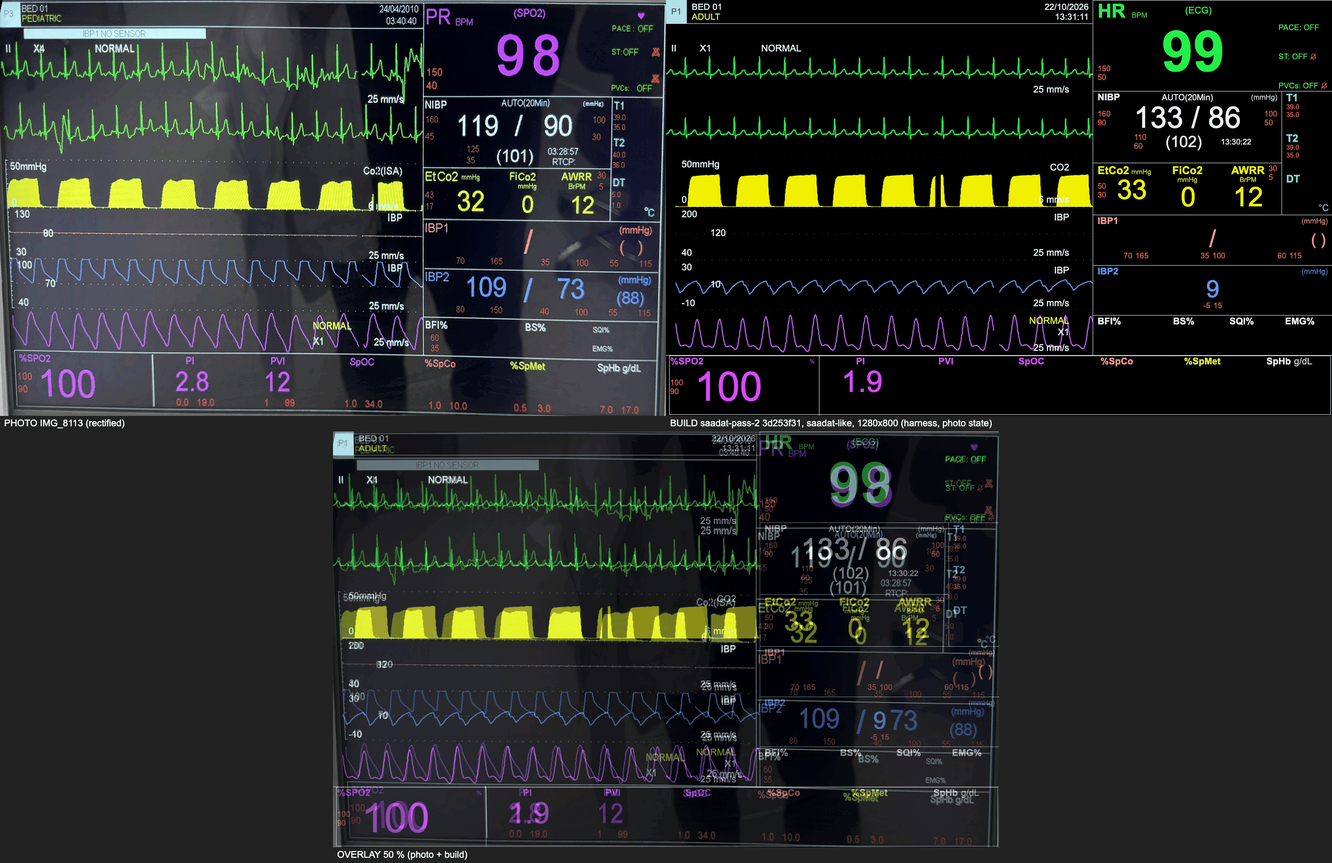
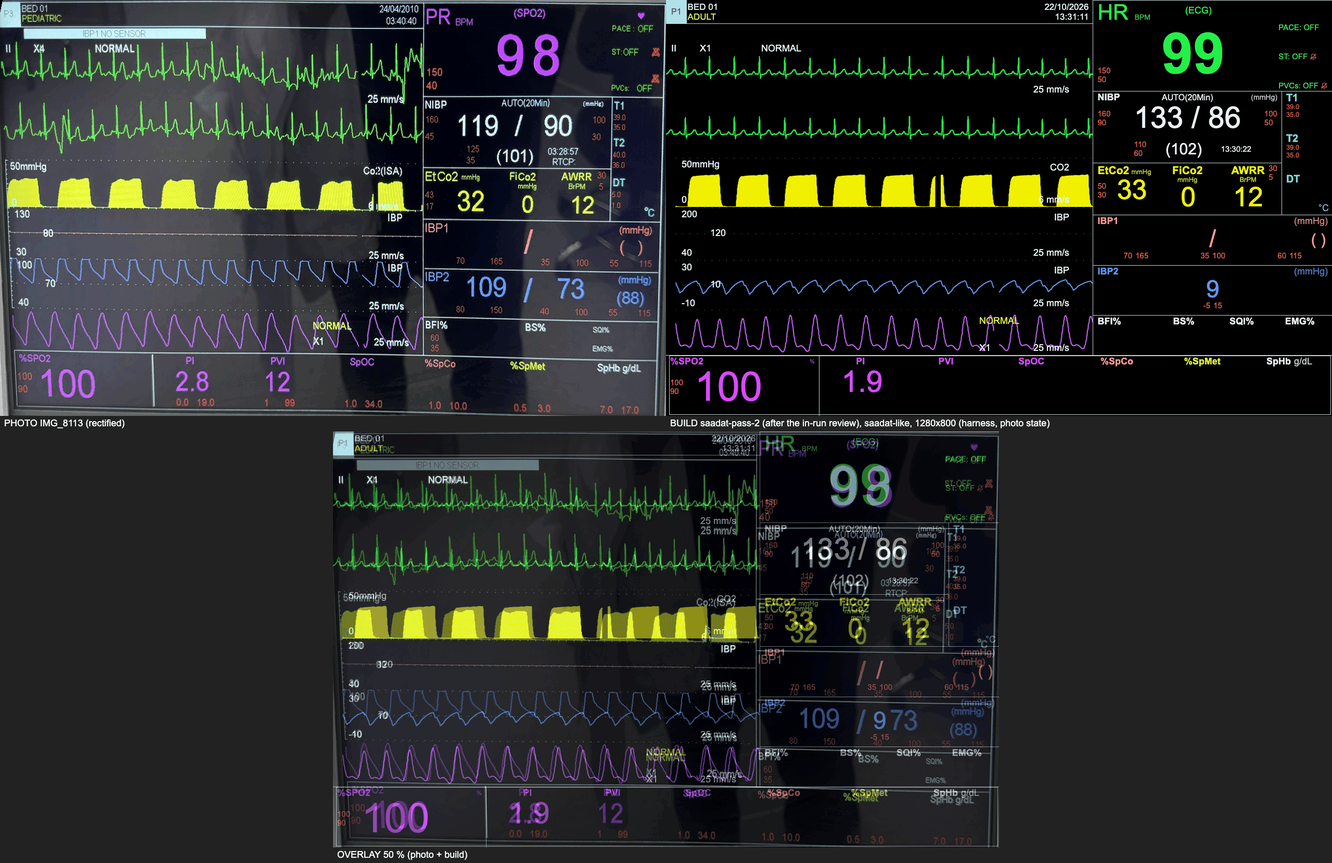
fix(skins): pass-2 in-run review — PR label regular 41 px, the CO2 tile bell off the AWRR limit, the pleth label block, a visible CO2 top line, IBP units 18 px, NIBP mean lower, BED at x 42
From the fresh reviewer's row-by-row measurement: T4 (the photo's PR is regular weight, cap height 30 px), a new overlap of the crossed bell over the AWRR high limit (the split row's bell goes to the bottom right), G2 for the pleth (labels.PLETH.leftInsetPx: NORMAL over X1 left-aligned at x 602, X1 on the speed's row), W10 (a top-edge dot is drawn one pixel inside the lane, as the bottom one already was; it had faded to 34/255), T12, T8, T13. Other skins: still 0 differing pixels.

diff --git a/packages/renderer/src/device-ui.ts b/packages/renderer/src/device-ui.ts
@@ -45,7 +45,7 @@ export function flashCss(r: ResolvedSkin): string {
     '.pme-hdr.two .r2{display:flex;align-items:center;gap:8px;height:max(22px,calc(3 * var(--pme-h, 0px) / 100));padding:0 8px 0 0;box-sizing:border-box}',
     // pass 2 (IMG_8113): the rule under row 1, not under the bar row (G3); the bar 45 px in, its text centred (C3); the
     // page box the full row high, flush left, regular (G4, T13); the header text 17 px (T13)
-    '.pme-hdr.two .r1{border-bottom:1px solid var(--pme-hdr-rule, transparent)}',
+    '.pme-hdr.two .r1{border-bottom:1px solid var(--pme-hdr-rule, transparent);gap:2px}',
     '.pme-hdr.two .r2{padding-left:5.5%}',
     '.pme-hdr.two .r2 .pme-bar{flex:none;width:calc(0.43 * (100% - var(--pme-tiles-w, 0px)));font-weight:400;text-align:center}',
     '.pme-hdr.two .pg{font-size:16px;padding:0 10px;margin-left:-8px;font-weight:400;align-self:stretch;display:flex;align-items:center}',
@@ -159,10 +159,13 @@ function photoCss(g: LayoutGrid): string[] {
   return [
     // T3: label weight (tiles, split parts, the strip)
     ...(w ? [`.pme-grid .pme-stile [data-pme="lbl"],.pme-grid .pme-stile .ph .pl,.pme-strip .pme-stile [data-pme="lbl"],.pme-sfield .pl{font-weight:${w}}`] : []),
-    // T4/T5/T10: a tile's own label size (PR 37, EtCo2 21, T1/T2/DT 20)
+    // T4/T5/T10: a tile's own label size (PR 41, EtCo2 21, T1/T2/DT 20); the PR label itself is regular weight (IMG_8113:
+    // 2–3 px stems at a 30 px cap height)
     ...own,
+    '.pme-grid .pme-stile.rc3[data-param="HR"] [data-pme="lbl"]{font-weight:400}',
     // T4: "BPM" beside the PR label on its baseline; T12: units 14 px
     '.pme-grid .pme-stile.rc3 .h .u{font-size:' + f(14) + '}',
+    `.pme-grid .pme-stile.rc3[data-param^="IBP"] .h .u{font-size:${f(18)}}`, // the IBP "(mmHg)" is larger (62 px wide)
     '.pme-grid .pme-stile.rc3[data-param="HR"] .h{align-items:baseline}',
     '.pme-grid .pme-stile.rc3[data-param="HR"] .h .u{margin-left:0}',
     // T6: the rate source "(ECG)" / "(SPO2)" 18 px, centred at the top of the PR tile
@@ -174,6 +177,7 @@ function photoCss(g: LayoutGrid): string[] {
     '.pme-grid .pme-stile.rc3[data-param="HR"] .lim.a{align-self:flex-end}',
     // T8: the NIBP mean 30 px under the slash, its limits left of it; T9: the mode 16 px centred at the top
     `.pme-grid .pme-stile.rc3[data-param="NIBP"] .srow .s{font-size:${f(30)};text-align:center}`,
+    `.pme-grid .pme-stile.rc3[data-param="NIBP"] .srow{margin-top:${f(14)}}`,
     `.pme-grid .pme-stile.rc3[data-param="NIBP"] .lim.c{margin-left:${f(70)}}`,
     `.pme-grid .pme-stile.rc3[data-param="NIBP"] [data-pme="ntime"]{font-size:${f(15)};margin-right:${f(50)}}`,
     `.pme-grid .pme-stile.rc3[data-param="NIBP"] [data-pme="mode"]{position:absolute;left:50%;top:${f(4)};transform:translateX(-50%);font-size:${f(16)}}`,
@@ -189,6 +193,8 @@ function photoCss(g: LayoutGrid): string[] {
     '.pme-grid .pme-stile.split.row .pv{text-align:center}',
     '.pme-grid .pme-stile.split.row .part{position:relative}',
     '.pme-grid .pme-stile.split.row .part:last-child:not(:first-child) .lim{position:absolute;right:0;top:0}',
+    // … so the split row's bell goes to the bottom right, as the T column's °C does (it printed over the AWRR limit)
+    `.pme-grid .pme-stile.split.row>.h{top:auto;bottom:${f(4)}}`,
     // G6: the %SPO2 value left of centre, after its limits
     `.pme-strip .pme-stile .v{text-align:left;padding-left:${f(18)}}`,
     // G5: the strip as a framed box (x 6–1278)

diff --git a/packages/renderer/test/lane-text.test.ts b/packages/renderer/test/lane-text.test.ts
@@ -232,18 +232,33 @@ describe('saadat-like lane text, pass 2 (landscape: IMG_8113 rows T1, T2, G1, G2
     expect(renderPlan(resolveSkin('philips-like')).pxPerMm).toBeNull();
   });
 
-  it('fit guards: a short landscape lane (1024 × 640: a 485 px canvas, PLETH ≈ 68 px) drops the pleth "X1" before its speed; no right-hand rows overlap', () => {
+  it('fit guards: on a short landscape lane (1024 × 640: a 485 px canvas, PLETH ≈ 68 px) no right-hand rows overlap; a second right-aligned line goes before the speed', () => {
     const rows = (ctx: FakeCtx) => ctx.calls.filter((c) => c.op === 'fillText' && c.style?.startsWith('right:')).map((c) => c.args[1]!).sort((a, b) => a - b);
     const tall = make({}, 1056, 614, 'pass2').ctx;
     expect(tall.texts.slice(-3)).toEqual(['NORMAL', 'X1', '25 mm/s']); // the photo's 614 px of lanes: all three
     const short = make({}, 1056, 485, 'pass2').ctx;
-    expect(short.texts.slice(-2)).toEqual(['NORMAL', '25 mm/s']);
+    expect(short.texts.slice(-3)).toEqual(['NORMAL', 'X1', '25 mm/s']); // the pleth block is left-aligned: X1 shares the speed's row
+    // a right-aligned label with a second line (the pleth without its leftInsetPx) loses the second line first
+    const plain = pass2(false);
+    const pleth = plain.lanes.find((l) => l.id === 'PLETH')!;
+    delete pleth.rightLabel!.leftInsetPx;
+    const ctx2 = new FakeCtx();
+    new MonitorCore({ width: 0, height: 0 }, ctx2, { cssW: 1056, cssH: 485, dpr: 1 }, { engine: { seed: 1, device: { skin: 'saadat-like' } }, plan: plain }, () => {});
+    expect(ctx2.texts.slice(-2)).toEqual(['NORMAL', '25 mm/s']);
     for (const ctx of [tall, short]) {
       const ys = rows(ctx);
       for (let k = 1; k < ys.length; k++) expect(ys[k]! - ys[k - 1]!).toBeGreaterThanOrEqual(22); // one 22 px row each (18 px text)
     }
     expect(short.texts).toEqual(expect.arrayContaining(['120', '10'])); // the middle IBP values still fit at 485 px
     expect(make({}, 1056, 300, 'pass2').ctx.texts).not.toContain('120'); // … and are left out when they would not
+  });
+
+  it('G2 (pleth): "NORMAL" over "X1" left-aligned 218 px left of the right edge, "X1" on the speed\'s row (labels.PLETH.leftInsetPx)', () => {
+    const { ctx } = make({}, 1056, 600, 'pass2');
+    const [n, x1, sp] = [fillTexts(ctx, 'NORMAL').find((c) => c.color === '#ECE84A')!, fillTexts(ctx, 'X1').at(-1)!, fillTexts(ctx, '25 mm/s').at(-1)!];
+    expect([n.style, n.args[0]]).toEqual(['left:NORMAL', 1056 - 218]);
+    expect([x1.style, x1.args[0], x1.args[1]]).toEqual(['left:X1', 1056 - 218, sp.args[1]]);
+    expect(renderPlan(resolveSkin('saadat-like'), undefined, undefined, true).lanes.at(-1)!.rightLabel!.leftInsetPx).toBeUndefined(); // portrait: rc.3
   });
 
   it('W10: a dotted line at the CO2 scale top (co2.scaleLineTop)', () => {

diff --git a/packages/renderer/src/skin-plan.ts b/packages/renderer/src/skin-plan.ts
@@ -30,7 +30,7 @@ export interface PlanLane {
   /** The middle scale value printed beside its line; null = none. */
   scaleMid: number | null;
   /** The label at the right of a wave lane (skin `layout.laneText`); null = the old label at the left. */
-  rightLabel: { text: string; color: string; sub?: string } | null;
+  rightLabel: { text: string; color: string; sub?: string; leftInsetPx?: number } | null;
   /** Unit printed after the top scale value ('mmHg' on a CO2 lane with lane text, as "50mmHg"); '' = none. */
   scaleSuffix: string;
 }
@@ -156,7 +156,7 @@ export function renderPlan(r: ResolvedSkin, page?: string, only?: LaneOverride, 
     return { id, kind: 'wave', channel: WAVE_CHANNEL[id] ?? null, color, mmPerS, gainMmPerMv: 10, autoGain: false, gainOptions: [], range, label: id === 'PLETH' ? 'PLETH' : id, fill: id === 'CO2' && s.co2.fill === true,
       smoothMs: id === 'CO2' ? (s.co2.displaySmoothMs ?? 0) : 0,
       scaleLines: dotted && sc ? [sc[2], sc[1], sc[0]] : id === 'CO2' && s.co2.scaleLineTop && range ? [range[1]] : null, scaleMid: dotted && sc ? sc[1] : null,
-      rightLabel: lt ? rightLabel(lt.labels?.[id], id === 'PLETH' ? 'PLETH' : id, r.render.foreground) : null,
+      rightLabel: lt ? rightLabel(lt.labels?.[id], id === 'PLETH' ? 'PLETH' : id, r.render.foreground, !portrait) : null,
       scaleSuffix: lt && id === 'CO2' ? s.co2.scaleUnit : '' };
   });
   return {
@@ -198,8 +198,8 @@ function laneTextPlan(lt: LaneText, color: string, portrait: boolean): LaneTextP
   };
 }
 
-function rightLabel(l: LaneTextLabel | undefined, text: string, fg: string): PlanLane['rightLabel'] {
-  return { text: l?.text ?? text, color: l?.color ?? fg, ...(l?.sub ? { sub: l.sub } : {}) };
+function rightLabel(l: LaneTextLabel | undefined, text: string, fg: string, landscape: boolean): PlanLane['rightLabel'] {
+  return { text: l?.text ?? text, color: l?.color ?? fg, ...(l?.sub ? { sub: l.sub } : {}), ...(landscape && l?.leftInsetPx !== undefined ? { leftInsetPx: l.leftInsetPx } : {}) };
 }
 
 /** The legacy look (monitor-core THEME, WAVE_STYLE) for pages that pass `lanes`/`waves` and no skin. */

diff --git a/packages/renderer/src/monitor-core.ts b/packages/renderer/src/monitor-core.ts
@@ -466,11 +466,17 @@ export class MonitorCore {
     const right = this.size.cssW - lt.insetPx;
     const speedY = y0 + h - row;
     const fits = (y: number) => y + row <= speedY;
-    if (pl.rightLabel) {
+    const li = pl.rightLabel?.leftInsetPx;
+    if (pl.rightLabel && li !== undefined) {
+      // a left-aligned block (the pleth "NORMAL" over "X1"): its second line on the speed's row, left of the speed
+      const x = this.size.cssW - li;
+      out.push({ text: pl.rightLabel.text, color: pl.rightLabel.color, x, y: y0 + OVER_RIGHT_Y, align: 'left' });
+      if (pl.rightLabel.sub && speedY >= y0 + OVER_RIGHT_Y + row) out.push({ text: pl.rightLabel.sub, color: lt.color, x, y: speedY, align: 'left' });
+    } else if (pl.rightLabel) {
       out.push({ text: pl.rightLabel.text, color: pl.rightLabel.color, x: right, y: y0 + OVER_RIGHT_Y, align: 'right' });
       if (pl.rightLabel.sub && fits(y0 + OVER_RIGHT_Y + row)) out.push({ text: pl.rightLabel.sub, color: lt.color, x: right, y: y0 + OVER_RIGHT_Y + row, align: 'right' });
     }
-    if (!pl.rightLabel || fits(y0 + OVER_RIGHT_Y)) out.push({ text: formatSpeed(pl.mmPerS), color: lt.color, x: right, y: speedY, align: 'right' });
+    if (!pl.rightLabel || li !== undefined || fits(y0 + OVER_RIGHT_Y)) out.push({ text: formatSpeed(pl.mmPerS), color: lt.color, x: right, y: speedY, align: 'right' });
     return out;
   }
 

diff --git a/packages/renderer/test/sweep-lane-4b.test.ts b/packages/renderer/test/sweep-lane-4b.test.ts
@@ -146,8 +146,9 @@ describe('SweepLane 4b options', () => {
     const dots = () => ctx.calls.filter((k) => k.op === 'fillRect' && k.style === '#8A8C92').map((k) => k.args);
     const rows = new Map<number, number[]>();
     for (const [x, y] of dots()) rows.set(y!, [...(rows.get(y!) ?? []), x!]);
-    // 200 at the lane top, 120 at yOf(120), 40 one pixel inside the bottom edge (review L-1: never clipped away)
-    expect([...rows.keys()].sort((a, b) => a - b)).toEqual([0, 50, 99]);
+    // 200 one pixel inside the top edge (pass 2 W10: a dot on the edge row faded under the lane above), 120 at yOf(120),
+    // 40 one pixel inside the bottom edge (review L-1: never clipped away)
+    expect([...rows.keys()].sort((a, b) => a - b)).toEqual([1, 50, 99]);
     for (const xs of rows.values()) {
       expect(Math.abs(xs.length - Math.floor(400 / 14))).toBeLessThanOrEqual(1);
       expect(xs.every((x) => x % 14 === 0)).toBe(true); // anchored to the lane's left edge: the dots do not crawl

diff --git a/packages/renderer/test/saadat-pass-2.test.ts b/packages/renderer/test/saadat-pass-2.test.ts
@@ -17,7 +17,7 @@ describe('pass 2: grid labels from the skin (T3, T4, T5, T10)', () => {
   it('layout.grid.labelPx sizes a tile\'s own label; labelWeight makes the labels bold; both scale with the monitor height', () => {
     const ui = make('saadat-like');
     const c = css();
-    expect(c).toContain('.pme-grid .pme-stile[data-param="HR"] [data-pme="lbl"],.pme-grid .pme-stile[data-param="HR"] .ph .pl{font-size:calc(37 * var(--pme-h, 800px) / 800)}');
+    expect(c).toContain('.pme-grid .pme-stile[data-param="HR"] [data-pme="lbl"],.pme-grid .pme-stile[data-param="HR"] .ph .pl{font-size:calc(41 * var(--pme-h, 800px) / 800)}');
     expect(c).toContain('[data-param="CO2"] .ph .pl{font-size:calc(21 * var(--pme-h, 800px) / 800)}');
     expect(c).toContain('.pme-sfield .pl{font-weight:700}');
     ui.destroy();

diff --git a/packages/renderer/src/sweep-lane.ts b/packages/renderer/src/sweep-lane.ts
@@ -169,7 +169,9 @@ export class SweepLane {
     ctx.clip();
     ctx.fillStyle = h.color;
     for (const v of h.values) {
-      const y = Math.min(c.y + c.height - s, Math.max(c.y, Math.round(this.yOf(v) * this.dpr) / this.dpr));
+      // a line on either edge is drawn one dot inside the lane (review L-1; pass 2 W10: a top-edge dot on a fractional lane
+      // top was half outside the lane and faded to 34/255)
+      const y = Math.min(c.y + c.height - s, Math.max(Math.ceil(c.y * this.dpr) / this.dpr + s, Math.round(this.yOf(v) * this.dpr) / this.dpr));
       for (let k = Math.max(0, Math.ceil((r[0] - c.x - s) / DOT_PITCH_PX)); c.x + k * DOT_PITCH_PX < Math.min(r[0] + r[2], c.x + c.width); k++) {
         ctx.fillRect(c.x + k * DOT_PITCH_PX, y, s, s);
       }

diff --git a/packages/skins/test/saadat-pass-2.test.ts b/packages/skins/test/saadat-pass-2.test.ts
@@ -11,7 +11,7 @@ describe('pass 2 skin keys', () => {
   it('saadat-like carries them; no other skin does', () => {
     const s = resolveSkin('saadat-like').skin;
     expect(s.layout.laneText).toMatchObject({ fontPx: 18, gutterPx: { ecg: 0, wave: 18 }, rightInsetPx: 45, ecgLabelX: [10, 65, 183], scaleX: { edge: 30, mid: 85 } });
-    expect(s.layout.grid).toMatchObject({ labelPx: { HR: 37, CO2: 21, TEMP: 20 }, labelWeight: 700 });
+    expect(s.layout.grid).toMatchObject({ labelPx: { HR: 41, CO2: 21, TEMP: 20 }, labelWeight: 700 });
     expect(s.sweep).toMatchObject({ gapPx: 10, lineWidthPx: 2, pxPerMm: 3.1 });
     expect(s.co2.scaleLineTop).toBe(true);
     expect(s.ecg.laneLeads).toEqual(['II', 'II']); // E116

diff --git a/packages/skins/src/schema.ts b/packages/skins/src/schema.ts
@@ -146,7 +146,7 @@ export const skinSchema: JsonSchema = {
       headerStyle: en(['two-row']),
       showAlways: arr(en(TILE_PARAMS), 1),
       laneText: obj({}, {
-        labels: obj({}, Object.fromEntries(LANE_IDS.map((k) => [k, obj({ text: str }, { color: hex, sub: str })]))),
+        labels: obj({}, Object.fromEntries(LANE_IDS.map((k) => [k, obj({ text: str }, { color: hex, sub: str, leftInsetPx: num(0, 800) })]))),
         // pass 2 (opt-in, landscape only): lane text size, the trace gutter, the right inset, the ECG label anchors and
         // the scale-value columns (types.ts LaneText)
         fontPx: num(8, 40),

diff --git a/packages/skins/src/types.ts b/packages/skins/src/types.ts
@@ -79,6 +79,11 @@ export interface LaneTextLabel {
   text: string;
   color?: string;
   sub?: string;
+  /**
+   * Pass 2 (optional, with `gutterPx`): the label LEFT-aligned this far left of the wave column's right edge, its second
+   * line on the speed's row (IMG_8113: the pleth "NORMAL" over "X1" at x 602, beside "25 mm/s"). Absent = right-aligned.
+   */
+  leftInsetPx?: number;
 }
 /**
  * layout.laneText: lane text as on the real unit. Every key but `labels` is optional and opt-in (Saadat fidelity pass 2,

diff --git a/docs/model/presentation.md b/docs/model/presentation.md
@@ -3,7 +3,7 @@
 <!-- GENERATED by scripts/model-docs.ts from the code. Edit only inside the hand:… blocks; regenerate with
      node --experimental-strip-types scripts/model-docs.ts -->
 
-[All modules](README.md) · [Known misses](../validation/known-misses.md#presentation) · 154 source files, 18344 lines · 193 test files
+[All modules](README.md) · [Known misses](../validation/known-misses.md#presentation) · 154 source files, 18363 lines · 193 test files
 
 ## Purpose
 
@@ -57,7 +57,7 @@ renderer, audio and skin contracts.
 | [`calibration.ts:2`](../../packages/renderer/src/calibration.ts#L2) | x = (simT · mm_s · px_mm) mod laneWidth |
 | [`calibration.ts:3`](../../packages/renderer/src/calibration.ts#L3) | Default calibration: 96 CSS px per inch = 3.78 CSS px/mm [05 §3.1] until the user calibrates. |
 | [`decimate.ts:6`](../../packages/renderer/src/decimate.ts#L6) | Unwrapped device-pixel column index: floor(x_css · dpr), x_css = n / rate · pxPerS. |
-| [`device-ui.ts:654`](../../packages/renderer/src/device-ui.ts#L654) | extras are drawn by their formatters; a split tile shows them as its parts (part k = entry k − 1), where an extra |
+| [`device-ui.ts:660`](../../packages/renderer/src/device-ui.ts#L660) | extras are drawn by their formatters; a split tile shows them as its parts (part k = entry k − 1), where an extra |
 | [`mount.ts:347`](../../packages/renderer/src/mount.ts#L347) | Resize and DPR changes (brief §3.5: backing store = CSS size × DPR; watch DPR through matchMedia). |
 | [`protocol.ts:24`](../../packages/renderer/src/protocol.ts#L24) | Wall/sim clock anchor sent with every event batch (brief §3.4). epochMs = timeOrigin + now. |
 | [`wave-lanes.ts:3`](../../packages/renderer/src/wave-lanes.ts#L3) | mmHg instead, so the scale range [lo, hi] becomes baseline = hi/(hi − lo) and gain = height/((hi − lo)·pxPerMm). |
@@ -484,14 +484,14 @@ Exported without a doc comment: `mountClassroomPanel`, `bookmark`, `shortcutsDia
 | [`calibration.ts`](../../packages/renderer/src/calibration.ts) | 24 | Sweep geometry (brief §3.5). |
 | [`ctx.ts`](../../packages/renderer/src/ctx.ts) | 25 | The subset of the Canvas 2D API the renderer uses. |
 | [`decimate.ts`](../../packages/renderer/src/decimate.ts) | 57 | Min/max decimation per DEVICE-pixel column (brief §3.5): 500 Hz at 25 mm/s is 5.3 samples per CSS px (2.65 per device px at DPR 2), so each column keeps its first, last, min and max sample. |
-| [`device-ui.ts`](../../packages/renderer/src/device-ui.ts) | 833 | Main-thread device chrome (brief §3.1 "DOM numerics tiles (≤1 Hz, CSS flash)"; §6.4 visuals; §6.4.1; §6.9): the alarm header (lamp, message bar, silence/pause countdown, all-off bell, layout badge, date), the skin's nume |
+| [`device-ui.ts`](../../packages/renderer/src/device-ui.ts) | 839 | Main-thread device chrome (brief §3.1 "DOM numerics tiles (≤1 Hz, CSS flash)"; §6.4 visuals; §6.4.1; §6.9): the alarm header (lamp, message bar, silence/pause countdown, all-off bell, layout badge, date), the skin's nume |
 | [`drug-panel.ts`](../../packages/renderer/src/drug-panel.ts) | 66 | Drug panel: a compact table (drug, Cp, Ce, pump/TCI, total, 50 % decrement) plus a 10-minute Ce sparkline per drug on one canvas, and the volatile line (FI/FA/brain, MAC). |
 | [`endo-panel.ts`](../../packages/renderer/src/endo-panel.ts) | 27 | Endocrine panel: glucose for everyone; the stress/hormone block for the instructor view only. |
 | [`engine.worker.ts`](../../packages/renderer/src/engine.worker.ts) | 118 | Worker entry: engine + renderer on an OffscreenCanvas (brief §3.4). |
 | [`iife-worker.ts`](../../packages/renderer/src/iife-worker.ts) | 19 | IIFE build only (`vite build --mode iife` aliases './engine.worker.ts?worker&inline' to this file). |
 | [`index.ts`](../../packages/renderer/src/index.ts) | 27 | @pme/renderer public API. |
 | [`lab-panel.ts`](../../packages/renderer/src/lab-panel.ts) | 42 | The lab / ABG panel (a DOM widget, like numerics-dom.ts). |
-| [`monitor-core.ts`](../../packages/renderer/src/monitor-core.ts) | 746 | Engine + sweep lanes + static chrome, driven by frame timestamps. |
+| [`monitor-core.ts`](../../packages/renderer/src/monitor-core.ts) | 752 | Engine + sweep lanes + static chrome, driven by frame timestamps. |
 | [`mount.ts`](../../packages/renderer/src/mount.ts) | 583 | mountMonitor (brief §7.6): ECG lanes + HR tile + QRS beep; pressure/pleth lanes and tiles. |
 | [`numerics-dom.ts`](../../packages/renderer/src/numerics-dom.ts) | 39 | DOM numeric tiles (brief §3.1: DOM numerics ≤1 Hz). |
 | [`numerics-hemo.ts`](../../packages/renderer/src/numerics-hemo.ts) | 90 | Haemodynamic numeric tiles (brief §6.1, §6.3): ABP/PAP "S/D (M)", CVP mean, PR, PI and NIBP with its measuring state, live cuff pressure and "hh:mm" timestamp. |
@@ -501,7 +501,7 @@ Exported without a doc comment: `mountClassroomPanel`, `bookmark`, `shortcutsDia
 | [`overlays.ts`](../../packages/renderer/src/overlays.ts) | 160 | Event overlays on the ECG lanes (brief §3.5 step 5; research/05 §2.6): pace marks, sync markers, shock marks and lead-off dashes. |
 | [`protocol.ts`](../../packages/renderer/src/protocol.ts) | 61 | Messages between the main thread and the engine+renderer worker (brief §3.4). |
 | [`skin-plan.ts`](../../packages/renderer/src/skin-plan.ts) | 222 | ResolvedSkin → RenderPlan: the plain-data lane layout the worker draws from. |
-| [`sweep-lane.ts`](../../packages/renderer/src/sweep-lane.ts) | 387 | One sweep lane (brief §3.5 "Per frame, for each lane"): x comes from sim time, never from frame counts. |
+| [`sweep-lane.ts`](../../packages/renderer/src/sweep-lane.ts) | 389 | One sweep lane (brief §3.5 "Per frame, for each lane"): x comes from sim time, never from frame counts. |
 | [`views.ts`](../../packages/renderer/src/views.ts) | 142 | Device-layer views drawn on a plain canvas: the 12-lead report (brief §6.6: 3×4 + lead II rhythm strip, 25 mm/s, 10 mm/mV, calibration pulses, on ECG paper) and the graphic trend (brief §6.7; `trend.style` line or filled |
 | [`wave-lanes.ts`](../../packages/renderer/src/wave-lanes.ts) | 48 | Haemodynamic waveform lanes (brief §3.5, §6.8 colours): ABP red, pleth cyan, CVP blue, PAP yellow, drawn by the existing SweepLane at 125 Hz. |
 | [`worker-host.ts`](../../packages/renderer/src/worker-host.ts) | 270 | Main-thread side of the engine+renderer (brief §3.4): an OffscreenCanvas worker when possible, the same MonitorCore on the main thread otherwise. |
@@ -513,7 +513,7 @@ Exported without a doc comment: `mountClassroomPanel`, `bookmark`, `shortcutsDia
 | [`registry.ts`](../../packages/skins/src/registry.ts) | 43 | Every shipped skin, base, theme and preset (brief §3.8; build order saadat-like → philips-like → zoll-like, then mindray-like, ge-like, lifepak-like). |
 | [`resolve.ts`](../../packages/skins/src/resolve.ts) | 289 | resolveSkin: the renderer/audio-facing contract (packages/skins/CONTRACT.md). |
 | [`schema.ts`](../../packages/skins/src/schema.ts) | 357 | JSON Schemas (draft-07, validated with ajv) for skins, themes and presets (brief §3.8). |
-| [`types.ts`](../../packages/skins/src/types.ts) | 456 | Skin data model (brief §3.8; research 06 §5 is the reference instance). |
+| [`types.ts`](../../packages/skins/src/types.ts) | 461 | Skin data model (brief §3.8; research 06 §5 is the reference instance). |
 | [`validate.ts`](../../packages/skins/src/validate.ts) | 27 | Runtime validation with ajv (MIT, NOTICES). |
 
 ## Known misses
@@ -522,7 +522,7 @@ None recorded.
 
 ## Tests
 
-688 tests in 193 files; 0 expected failures, 0 skipped.
+689 tests in 193 files; 0 expected failures, 0 skipped.
 
 | File | Tests | Expected failures | Skipped |
 |---|---|---|---|
@@ -671,7 +671,7 @@ None recorded.
 | [`host-snapshot.test.ts`](../../packages/renderer/test/host-snapshot.test.ts) | 2 | 0 | 0 |
 | [`lab-panel.test.ts`](../../packages/renderer/test/lab-panel.test.ts) | 1 | 0 | 0 |
 | [`label-tail.test.ts`](../../packages/renderer/test/label-tail.test.ts) | 1 | 0 | 0 |
-| [`lane-text.test.ts`](../../packages/renderer/test/lane-text.test.ts) | 23 | 0 | 0 |
+| [`lane-text.test.ts`](../../packages/renderer/test/lane-text.test.ts) | 24 | 0 | 0 |
 | [`lane-weights.test.ts`](../../packages/renderer/test/lane-weights.test.ts) | 3 | 0 | 0 |
 | [`monitor-core-4b.test.ts`](../../packages/renderer/test/monitor-core-4b.test.ts) | 5 | 0 | 0 |
 | [`monitor-core.test.ts`](../../packages/renderer/test/monitor-core.test.ts) | 14 | 0 | 0 |

diff --git a/packages/skins/CONTRACT.md b/packages/skins/CONTRACT.md
@@ -72,7 +72,7 @@ A skin without these keys draws exactly as before. Only `saadat-like` (and so `i
 | `ibp.scaleLines` | `PlanLane.scaleLines`/`scaleMid` → `LaneConfig.hLines` | now read: `'dotted-upper-mid-lower'` draws dotted lines at the IBP scale's three values and prints the middle value; `'none'` as before |
 | `ibp.scaleLineColor?: Hex` | `RenderPlan.scaleLineColor` | the dots' colour (absent = the lane colour); themes darken it like `colors` |
 | `layout.laneText?: { labels?: { <lane>: { text, color?, sub? } } }` | `RenderPlan.laneText`, `PlanLane.rightLabel`/`scaleSuffix` (`monitor-core.ts` `drawChrome`, `repaintRightTexts`) | its presence draws the lane text in the foreground colour, each wave label and every sweep speed at the right of its lane (repainted as the erase bar passes), the CO2 scale with its unit ("50mmHg"), and no label or speed on an ECG lane that repeats an earlier lane's lead. `labels` overrides a label's text and colour (themes darken it) and adds a second line `sub`. Pages that name their lanes keep the old chrome |
-| `layout.laneText.fontPx?`, `gutterPx?: { ecg, wave }`, `rightInsetPx?`, `ecgLabelX?: number[]`, `scaleX?: { edge, mid }` (pass 2) | `RenderPlan.laneText` (`LaneTextPlan`), `monitor-core.ts` `overTexts`, `overprintLane`, `overChrome` | landscape only (`renderPlan(…, portrait)`: a phone keeps the 14 px rc.3 chrome). `fontPx` sizes the lane text (default 14). `gutterPx` starts the traces at these x per lane kind instead of the 56 px chrome column; with it the lane text is drawn OVER the trace and repainted only inside the rects the sweep has just cleared and drawn (`SweepLane.takeBand`, `LaneConfig.recordBand`), so no black box cuts into a trace or the CO2 fill, and the ECG 1 mV bar follows `ecg.calPulse.defaultOn` (`RenderPlan.calBar`). `rightInsetPx` (default 6) insets the right-hand texts; `ecgLabelX` places the ECG label's parts (split at double spaces) at these x; `scaleX` puts the top and bottom scale values at `edge` and the middle one at `mid`, centred on its dotted line |
+| `layout.laneText.fontPx?`, `gutterPx?: { ecg, wave }`, `rightInsetPx?`, `ecgLabelX?: number[]`, `scaleX?: { edge, mid }` (pass 2) | `RenderPlan.laneText` (`LaneTextPlan`), `monitor-core.ts` `overTexts`, `overprintLane`, `overChrome` | landscape only (`renderPlan(…, portrait)`: a phone keeps the 14 px rc.3 chrome). `fontPx` sizes the lane text (default 14). `gutterPx` starts the traces at these x per lane kind instead of the 56 px chrome column; with it the lane text is drawn OVER the trace and repainted only inside the rects the sweep has just cleared and drawn (`SweepLane.takeBand`, `LaneConfig.recordBand`), so no black box cuts into a trace or the CO2 fill, and the ECG 1 mV bar follows `ecg.calPulse.defaultOn` (`RenderPlan.calBar`). `rightInsetPx` (default 6) insets the right-hand texts; `ecgLabelX` places the ECG label's parts (split at double spaces) at these x; `scaleX` puts the top and bottom scale values at `edge` and the middle one at `mid`, centred on its dotted line. `labels.<lane>.leftInsetPx` left-aligns that label this far left of the right edge, its second line on the speed's row (the pleth "NORMAL" over "X1") |
 | `sweep.pxPerMm?: number` (1–10, pass 2) | `RenderPlan.pxPerMm` → `MonitorCore.pxPerMm` | the screen scale the sweep and the ECG gain are drawn at until the user calibrates (`mount` `pxPerMm`, `calibrate()`); absent = 96 dpi (3.78) |
 | `co2.scaleLineTop?: boolean` (pass 2) | `PlanLane.scaleLines` = `[top]` on the CO2 lane | a dotted line at the CO2 scale top, in `ibp.scaleLineColor` |
 
